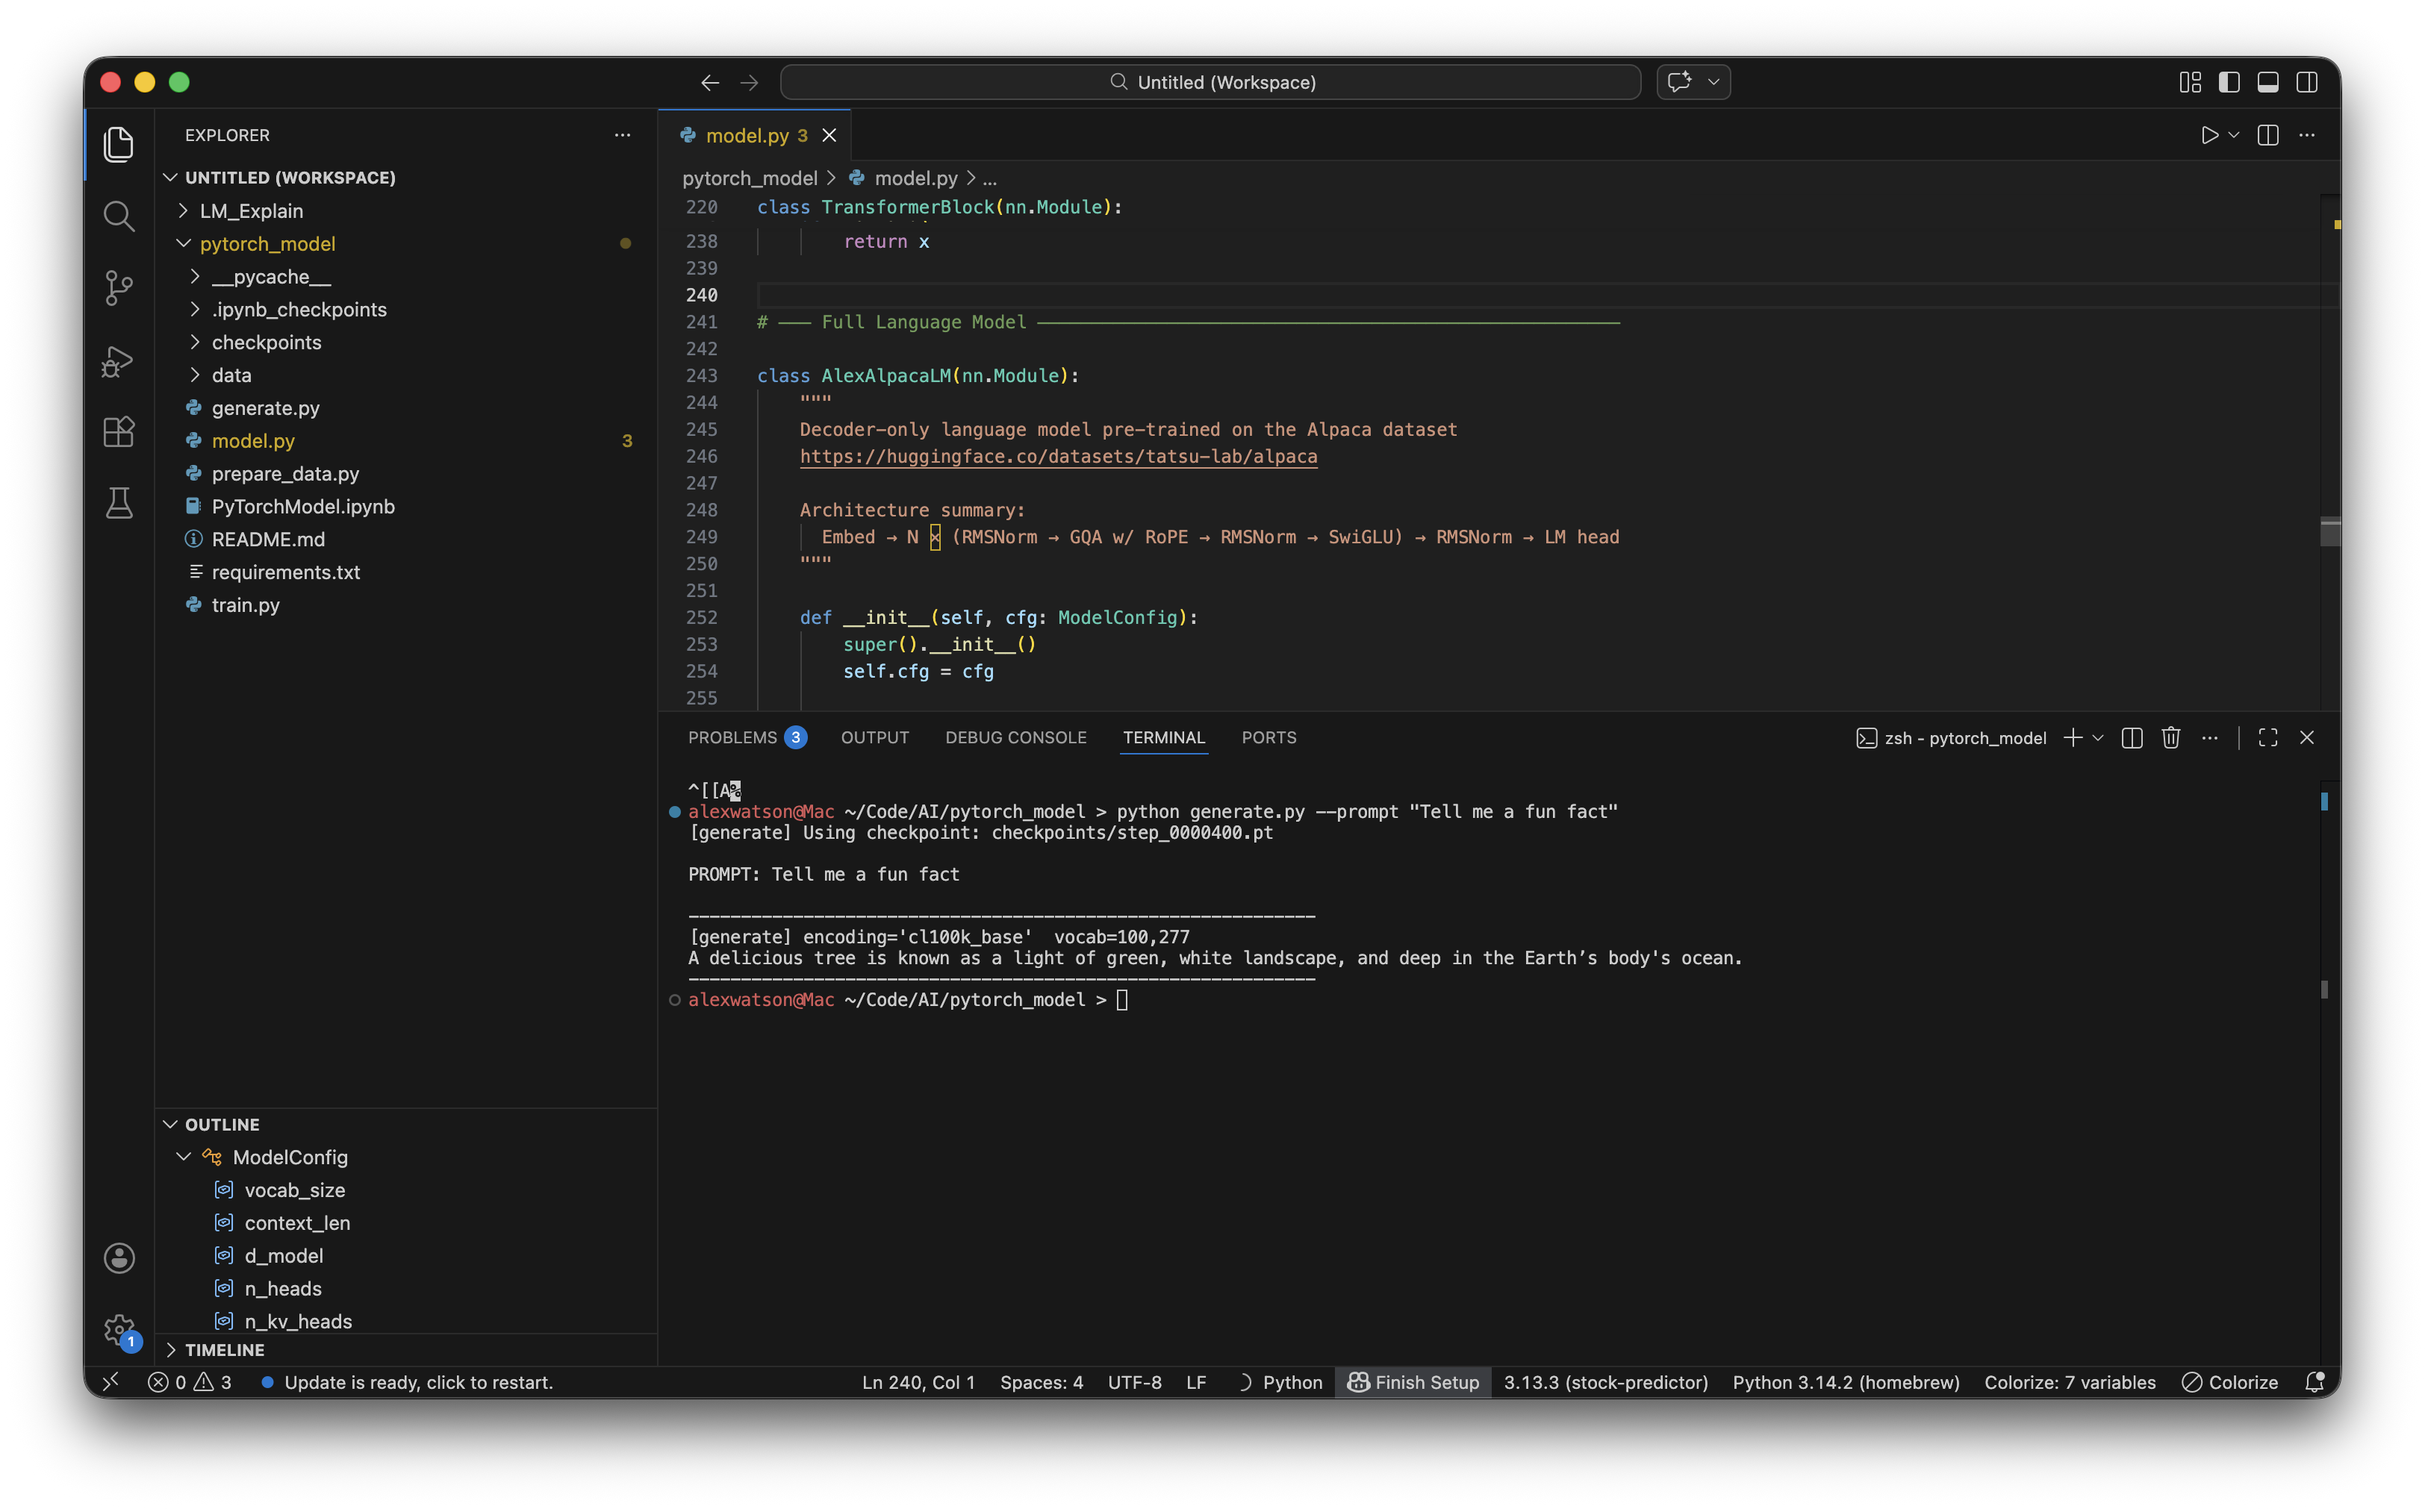
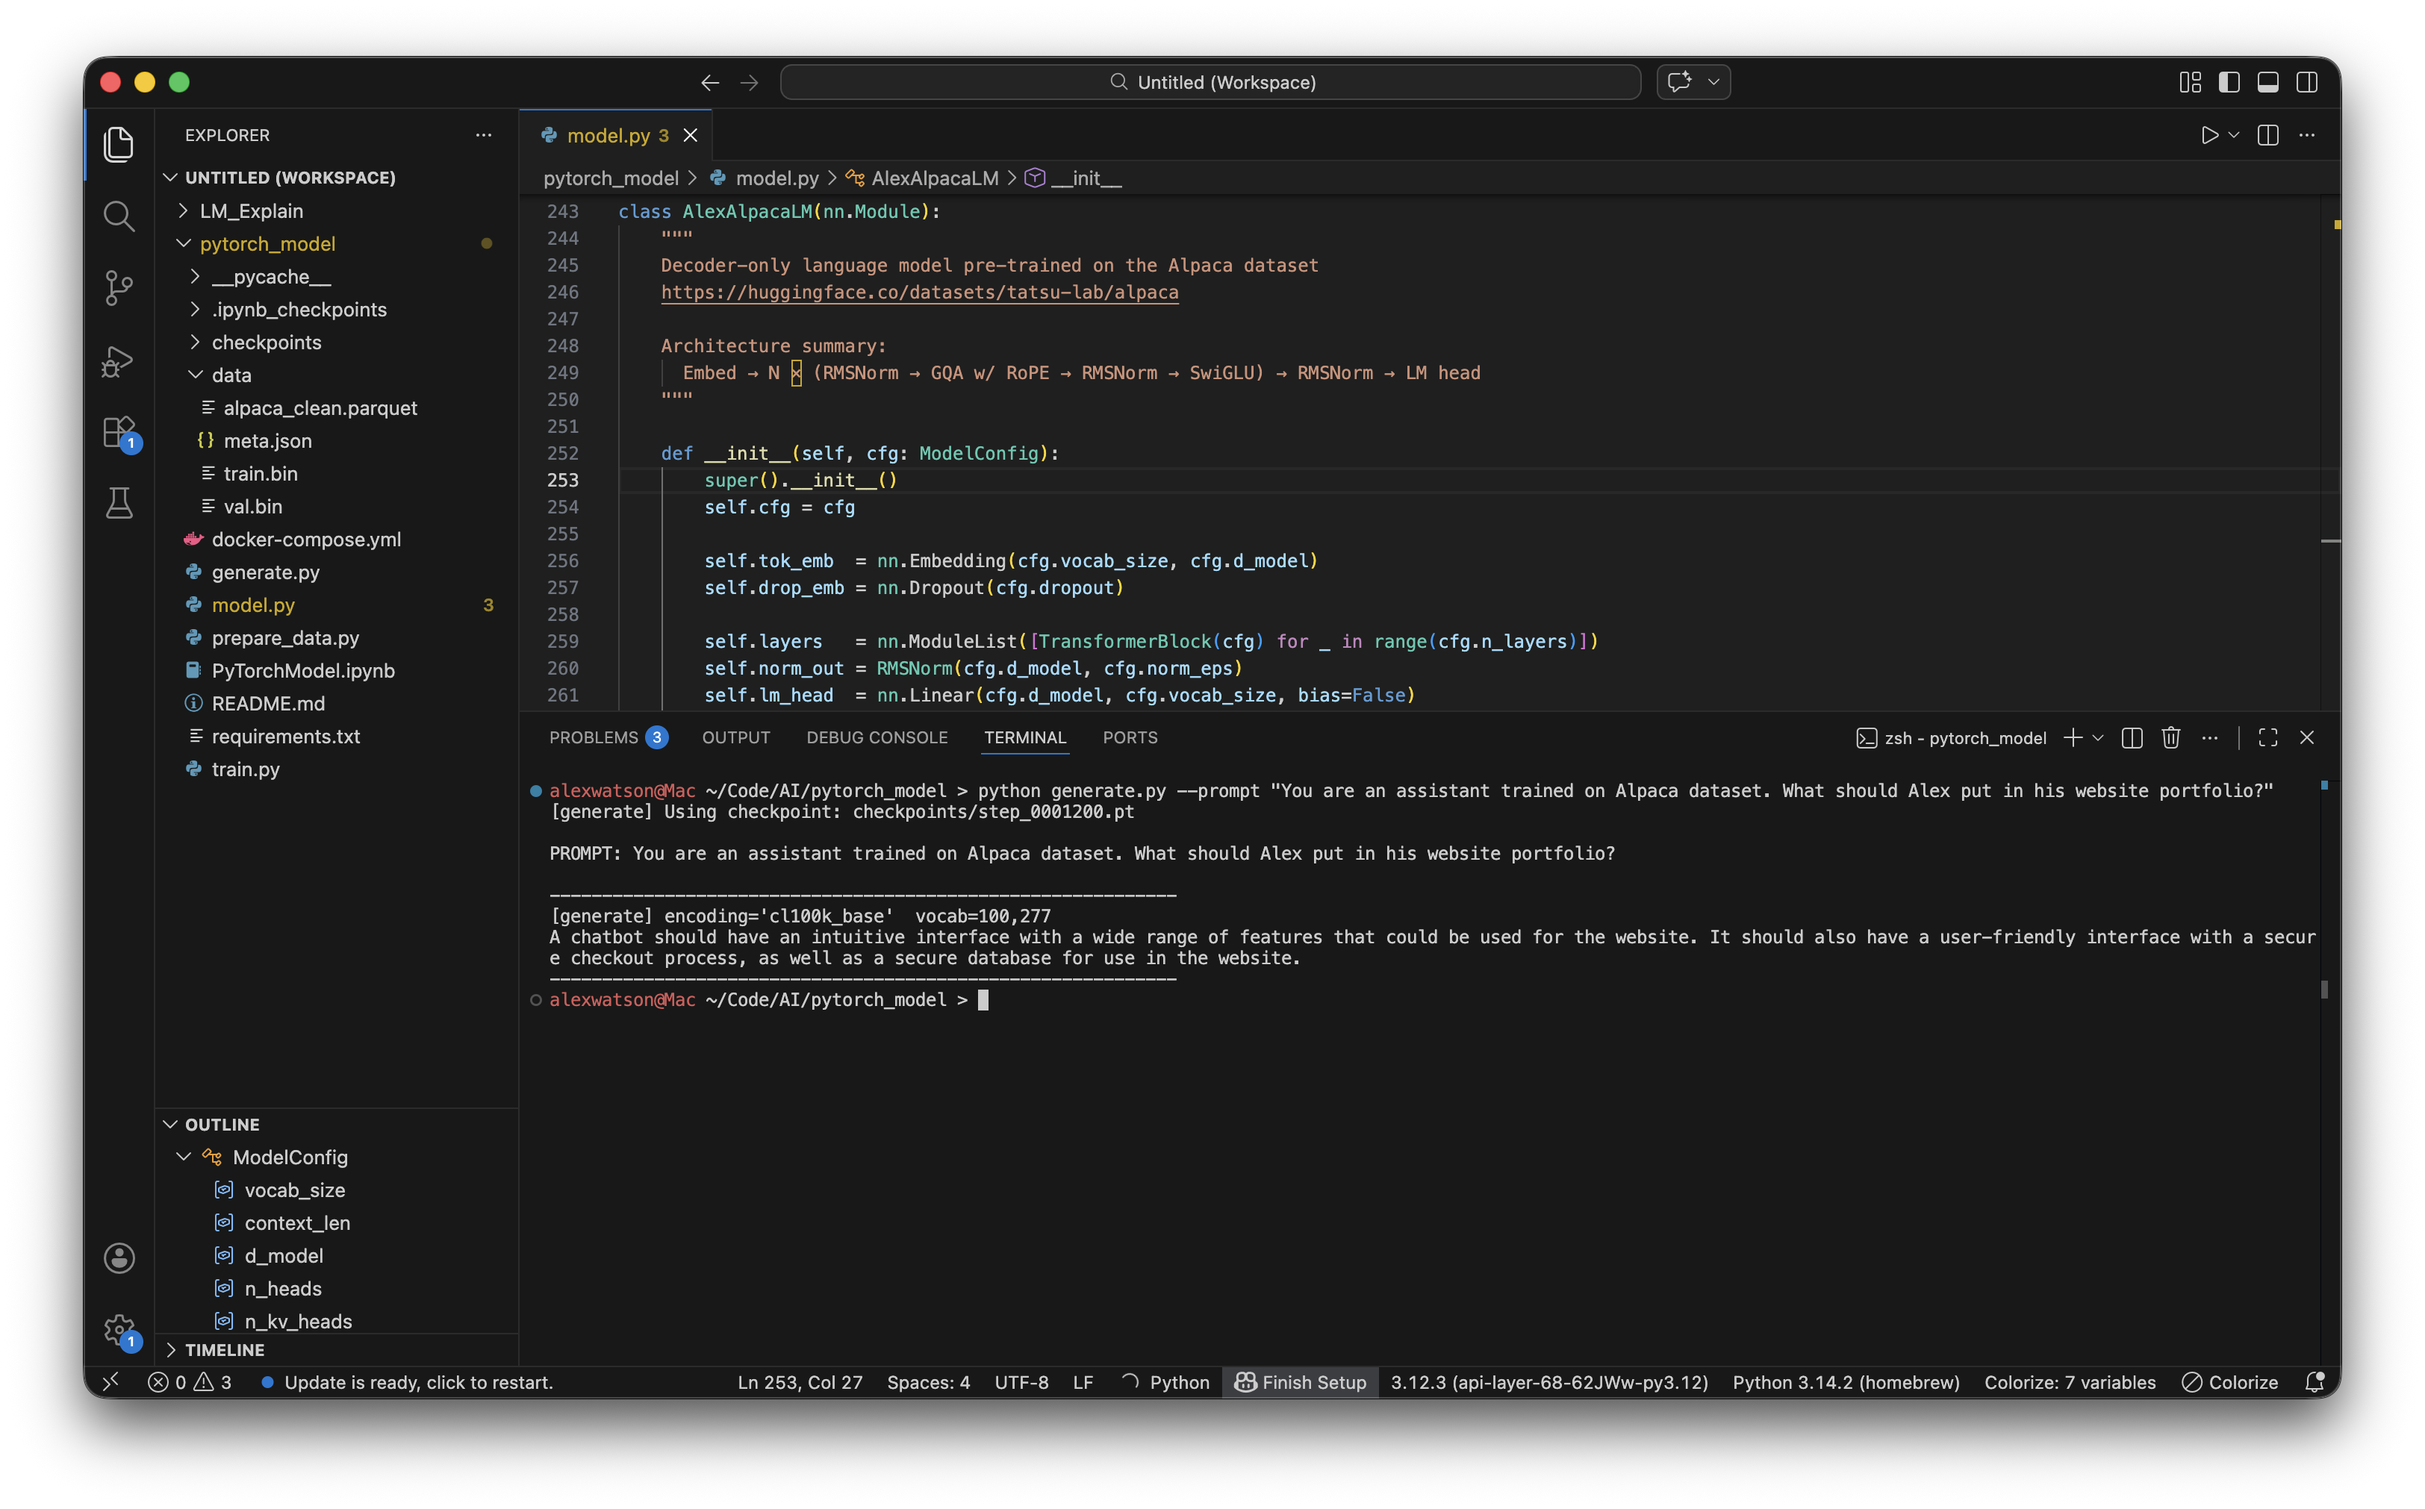
Updated LLM screenshot

diff --git a/src/App.tsx b/src/App.tsx
@@ -288,7 +288,7 @@ function App() {
                 />
                 <div className="carousel-text text-center mt-3">
                   <h5>Pre-training an LLM from scratch</h5>
-                  <p>Using PyTorch with MPS on my Apple M3 Max with 128GB RAM, I have trained a causal text-generation LLM using the Tatsu Alpaca dataset from HuggingFace with TikToken o200k_base byte-pair encoding. The model architecture consists of RMSNorm, SwiGLU, RoPE, and Group Query Attention. The model converged and produces decent semi-nonsensical output after 400 training steps.</p>
+                  <p>Using PyTorch with MPS on my Apple M3 Max with 128GB RAM, I have trained a ~27M parameter causal text-generation LLM using the Tatsu Alpaca dataset from HuggingFace with TikToken o200k_base byte-pair encoding. The model architecture consists of RMSNorm, SwiGLU, RoPE, and Group Query Attention. The model converged well and has a perplexity of ~8.55 and answers questions semi-coherently.</p>
                 </div>
               </div>
 
